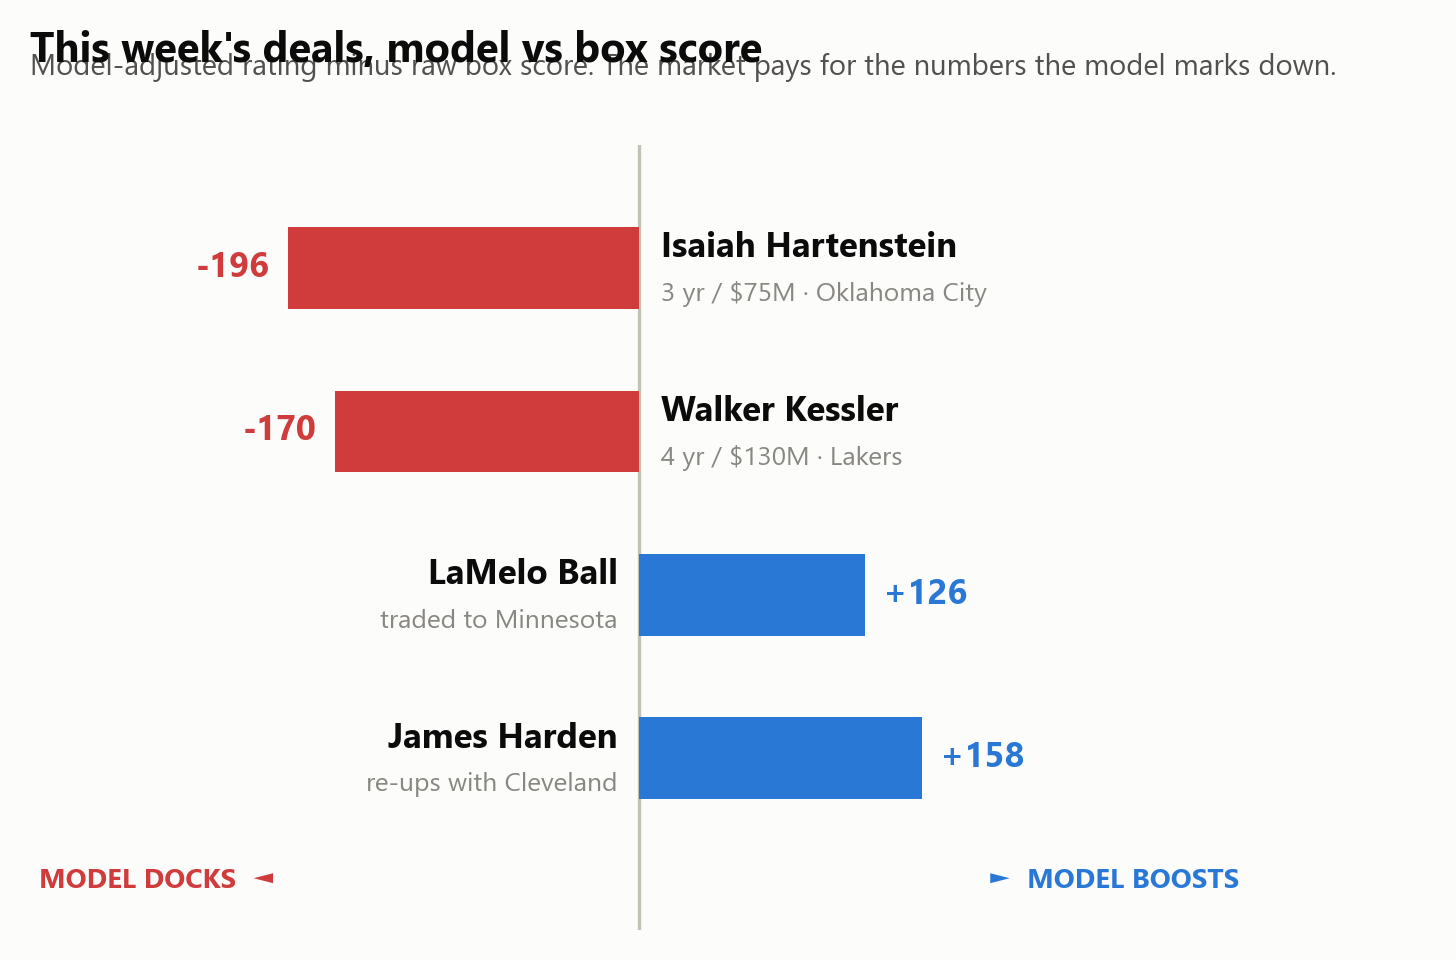
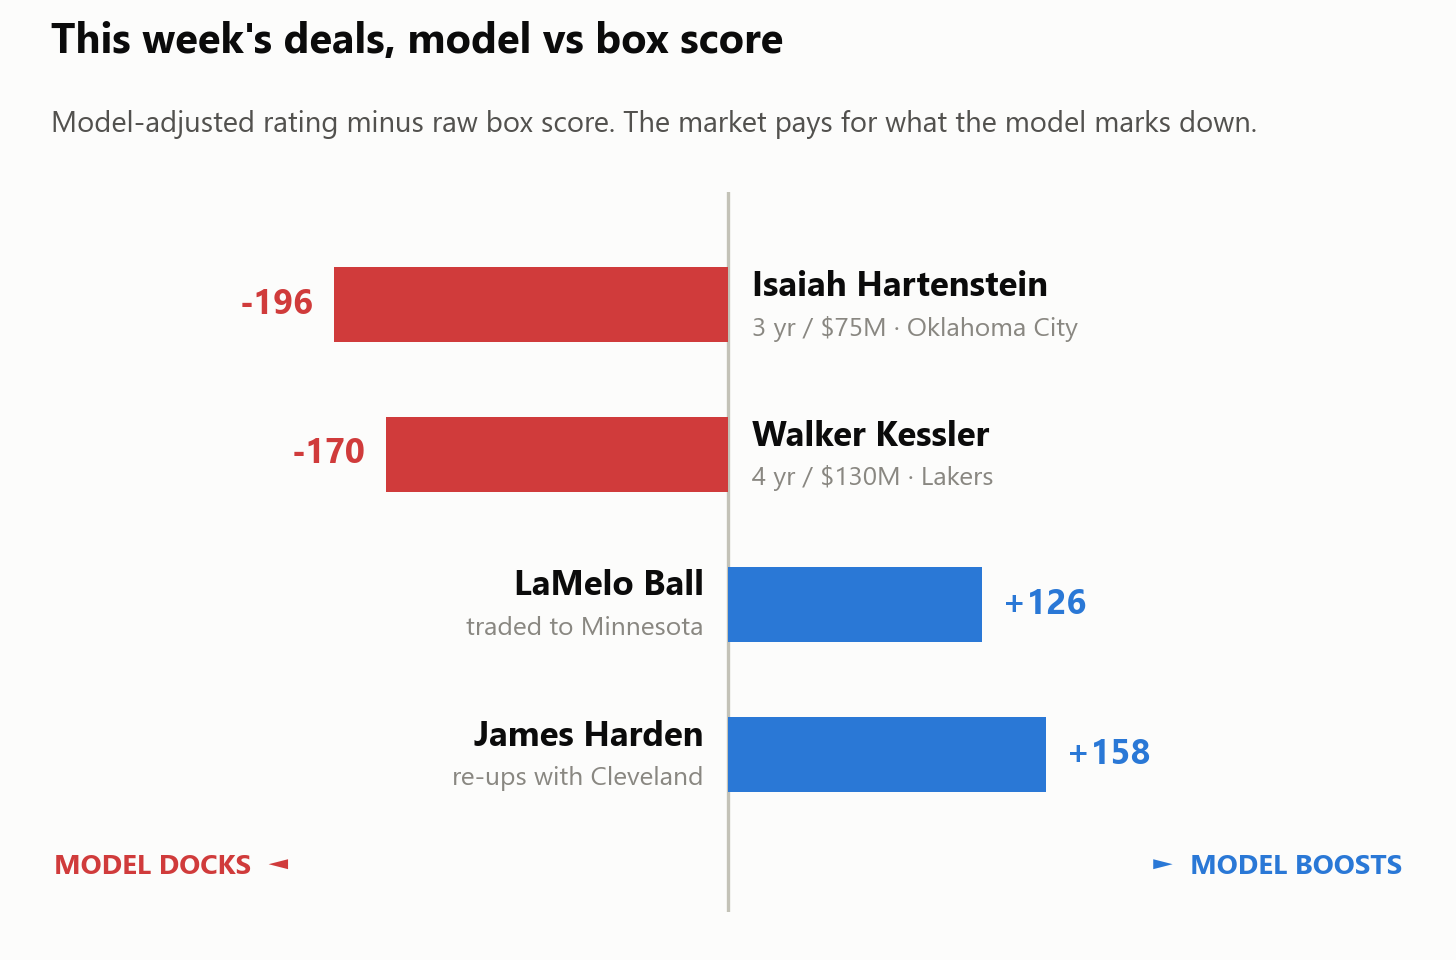
Fix divergence chart title/subtitle overlap (decouple from axes)

diff --git a/scripts/generate_divergence_chart.py b/scripts/generate_divergence_chart.py
@@ -54,11 +54,10 @@ ax.text(-335, -0.75, "MODEL DOCKS  ◄", fontsize=10, color=RED,
         fontweight="bold", va="center")
 ax.text(335, -0.75, "►  MODEL BOOSTS", fontsize=10, color=BLUE,
         fontweight="bold", va="center", ha="right")
-ax.set_title("This week's deals, model vs box score",
-             fontsize=15, fontweight="bold", loc="left", pad=30, color=INK)
-ax.text(0, 1.09, "Model-adjusted rating minus raw box score. The market pays "
-        "for the numbers the model marks down.", transform=ax.transAxes,
-        fontsize=10.5, color=SECONDARY)
-fig.tight_layout()
+fig.subplots_adjust(left=0.03, right=0.97, top=0.80, bottom=0.05)
+fig.text(0.035, 0.945, "This week's deals, model vs box score",
+         fontsize=15, fontweight="bold", color=INK)
+fig.text(0.035, 0.862, "Model-adjusted rating minus raw box score. The market "
+         "pays for what the model marks down.", fontsize=10.5, color=SECONDARY)
 fig.savefig("docs/growth/posts/assets/week_divergence.png")
 print("done")

diff --git a/docs/growth/posts/2026-07-06-the-overpay.md b/docs/growth/posts/2026-07-06-the-overpay.md
@@ -4,7 +4,7 @@ Free agency is loud. Everyone grades the same signings the same way, off the sam
 
 Start with the receipt.
 
-![This week's deals, model vs box score: the model docks Hartenstein and Kessler, boosts LaMelo and Harden](https://substack-post-media.s3.amazonaws.com/public/images/38146778-2672-49ef-beca-6d475ed127c7_1456x960.jpeg)
+![This weeks deals, model vs box score](https://substack-post-media.s3.amazonaws.com/public/images/f6293dc6-3f7c-439a-bd40-228f5db02549_1456x960.jpeg)
 
 That chart is the gap between two numbers we keep on every player: their raw box-score rating, and the rating our engine actually uses to predict games. When those two numbers disagree, it is usually because the box score is measuring the wrong thing.
 
